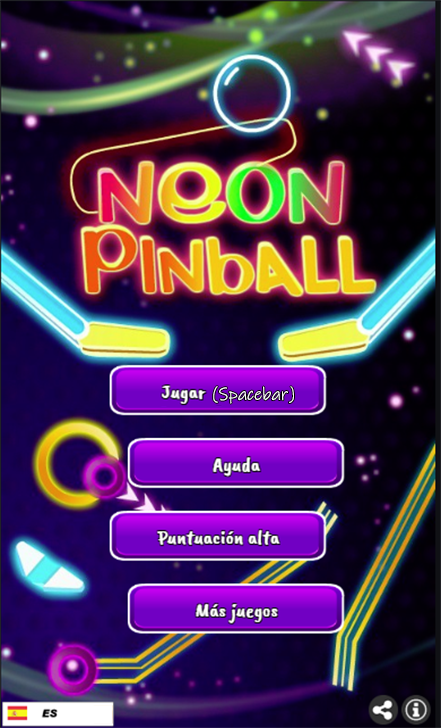
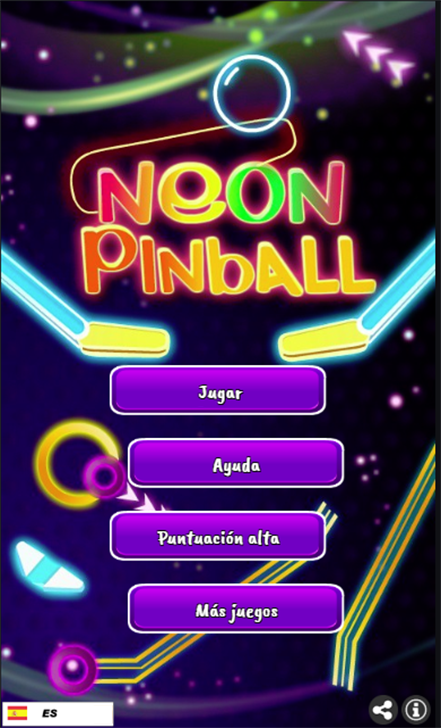
menu and end play buttons

Changed region(s): [[0.3537, 0.5137, 0.678, 0.5742]]

diff --git a/Pinball/ModuleSceneIntro.cpp b/Pinball/ModuleSceneIntro.cpp
@@ -270,12 +270,6 @@ update_status ModuleSceneIntro::Update()
 		collision9 = false;
 	}
 
-	if(App->input->GetKey(SDL_SCANCODE_1) == KEY_DOWN)
-	{
-		App->physics->world->DestroyBody(ball->body);
-		ball = App->physics->CreateCircle(App->input->GetMouseX(), App->input->GetMouseY(), 7);
-	}
-
 	// Prepare for raycast ------------------------------------------------------
 	
 	iPoint mouse;
@@ -384,14 +378,6 @@ update_status ModuleSceneIntro::Update()
 	{
 		App->renderer->Blit(sprites, sBouncerPos.x, sBouncerPos.y, &smallBouncerLight);
 	}
-	
-	while(c != NULL)
-	{
-		int x, y;
-		c->data->GetPosition(x, y);
-		App->renderer->Blit(sprites, x, y, &ballRect, 1.0f, c->data->GetRotation());
-		c = c->next;
-	}
 
 	//Audio volume management
 
@@ -436,6 +422,12 @@ update_status ModuleSceneIntro::Update()
 
 update_status ModuleSceneIntro::PostUpdate()
 {
+	if (App->input->GetKey(SDL_SCANCODE_1) == KEY_DOWN)
+	{
+		App->physics->world->DestroyBody(ball->body);
+		ball = App->physics->CreateCircle(App->input->GetMouseX(), App->input->GetMouseY(), 7);
+	}
+	
 	// -------------------------------------------    Player life
 
 	if (ballPos.y >= 768 && lifes < 4)

diff --git a/Pinball/ModuleMenu.cpp b/Pinball/ModuleMenu.cpp
@@ -28,7 +28,6 @@ bool ModuleMenu::Start()
 	App->player->Disable();
 	App->physics->Disable();
 	App->endScene->Disable();
-	play = App->physics->CreateRectangleSensor(110, 366, 440, 100);
 	App->player->CleanUp();
 
 	return true;
@@ -36,7 +35,7 @@ bool ModuleMenu::Start()
 
 update_status ModuleMenu::Update()
 {
-	if (App->input->GetKey(SDL_SCANCODE_SPACE) == KEY_DOWN)
+	if (App->input->GetMouseButton(SDL_BUTTON_LEFT) == KEY_DOWN && App->input->GetMouseX() >= 115 && App->input->GetMouseX() <= 315 && App->input->GetMouseY() >= 365 && App->input->GetMouseY() <= 415)
 	{
 		App->physics->Enable();
 		App->scene_intro->Enable();

diff --git a/Pinball/ModuleEnd.cpp b/Pinball/ModuleEnd.cpp
@@ -25,7 +25,6 @@ bool ModuleEnd::Start()
 	App->player->Disable();
 	App->physics->Disable();
 	App->menu->Disable();
-	play = App->physics->CreateRectangleSensor(100, 473, 230, 50);
 
 	return true;
 }
@@ -33,7 +32,7 @@ bool ModuleEnd::Start()
 update_status ModuleEnd::Update()
 {
 
-	if (App->input->GetKey(SDL_SCANCODE_SPACE) == KEY_DOWN)
+	if (App->input->GetMouseButton(SDL_BUTTON_LEFT) == KEY_DOWN && App->input->GetMouseX() >= 115 && App->input->GetMouseX() <= 315 && App->input->GetMouseY() >= 450 && App->input->GetMouseY() <= 550)
 	{
 		App->menu->Enable();
 		this->Disable();

diff --git a/Pinball/ModulePhysics.cpp b/Pinball/ModulePhysics.cpp
@@ -17,7 +17,7 @@ ModulePhysics::ModulePhysics(Application* app, bool start_enabled) : Module(app,
 {
 	world = NULL;
 	mouse_joint = NULL;
-	debug = true;
+	debug = false;
 }
 
 // Destructor
